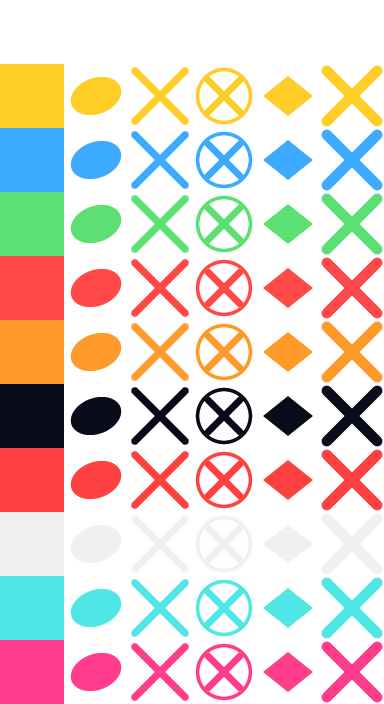
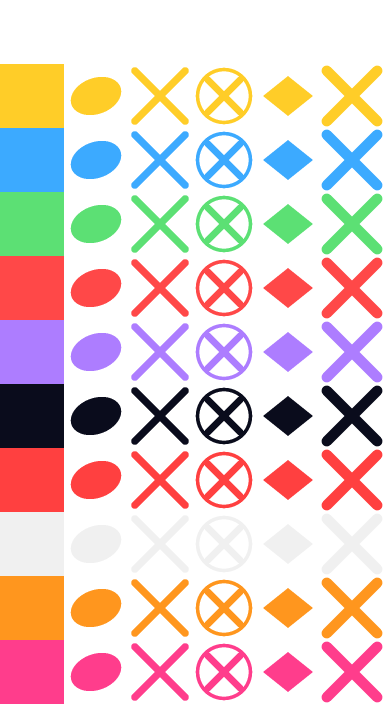
Notation view: crash orange, floor tom purple
Replaces the cyan right crash: the crash takes orange (255,150,30) and
the floor tom moves to purple (173,125,255), so orange belongs to the
crash alone. Labels and hit flashes follow the same table.

Claude-Session: https://claude.ai/code/session_01WKgs6DwHtoEQb9UfLX31gJ

diff --git a/DTXMania/Code/Stage/07.Performance/DrumsScreen/CActPerfDrumsNotation.cs b/DTXMania/Code/Stage/07.Performance/DrumsScreen/CActPerfDrumsNotation.cs
@@ -137,11 +137,11 @@ namespace DTXMania
                           C_LEFT  = 2,      // 60,170,255  left hand / left foot
                           C_GREEN = 3,      // 92,224,116  hi tom
                           C_RED   = 4,      // 255,72,72   lo tom
-                          C_ORANGE = 5,     // 255,153,41  floor tom
+                          C_PURPLE = 5,     // 173,125,255 floor tom
                           C_DARK  = 6,      // band background
                           C_PLAYHEAD = 7,
                           C_KICK  = 8,      // 240,240,240 kick and left bass drum
-                          C_CRASH_R = 9,    // 80,230,230  right crash   ) the two crashes are the deliberate
+                          C_CRASH_R = 9,    // 255,150,30  right crash   ) the two crashes are the deliberate
                           C_CRASH_L = 10;   // 255,61,140  left crash    ) exception to the limb rule: they sit
                                             //   one ledger line apart and would otherwise be two yellow x heads
 
@@ -167,7 +167,7 @@ namespace DTXMania
             { EChannel.HiHatOpen,    new STNote( 9, SHAPE_CIRCLE_X, C_RIGHT, true ) },
             { EChannel.RideCymbal,   new STNote( 8, SHAPE_DIAMOND,  C_RIGHT, true ) },
             { EChannel.Cymbal,       new STNote(10, SHAPE_BOLD_X,   C_CRASH_R, true ) },
-            { EChannel.FloorTom,     new STNote( 3, SHAPE_HEAD,     C_ORANGE,true ) },
+            { EChannel.FloorTom,     new STNote( 3, SHAPE_HEAD,     C_PURPLE,true ) },
             { EChannel.BassDrum,     new STNote( 1, SHAPE_HEAD,     C_KICK,  false) },
             { EChannel.Snare,        new STNote( 5, SHAPE_HEAD,     C_LEFT,  true ) },
             { EChannel.LeftCymbal,   new STNote(12, SHAPE_X,        C_CRASH_L, true ) },
@@ -195,7 +195,7 @@ namespace DTXMania
             new STLaneLabel( 1, C_KICK,  "KICK"   ),        // 3  BD
             new STLaneLabel( 7, C_GREEN, "HI TOM" ),        // 4  HT
             new STLaneLabel( 6, C_RED,   "LO TOM" ),        // 5  LT
-            new STLaneLabel( 3, C_ORANGE,"FLOOR"  ),        // 6  FT
+            new STLaneLabel( 3, C_PURPLE,"FLOOR"  ),        // 6  FT
             new STLaneLabel(10, C_CRASH_R, "CRASH"  ),        // 7  CY
             new STLaneLabel(-1, C_LEFT,  "L.PEDAL"),        // 8  LP (and left bass drum)
             new STLaneLabel( 8, C_RIGHT, "RIDE"   ),        // 9  RD
@@ -305,9 +305,9 @@ namespace DTXMania
                 case C_LEFT:   return Color.FromArgb( 60, 170, 255);
                 case C_GREEN:  return Color.FromArgb( 92, 224, 116);
                 case C_RED:    return Color.FromArgb(255,  72,  72);
-                case C_ORANGE: return Color.FromArgb(255, 153,  41);
+                case C_PURPLE: return Color.FromArgb(173, 125, 255);
                 case C_KICK:   return Color.FromArgb(240, 240, 240);
-                case C_CRASH_R:return Color.FromArgb( 80, 230, 230);
+                case C_CRASH_R:return Color.FromArgb(255, 150,  30);
                 case C_CRASH_L:return Color.FromArgb(255,  61, 140);
                 default:       return Color.White;
             }
